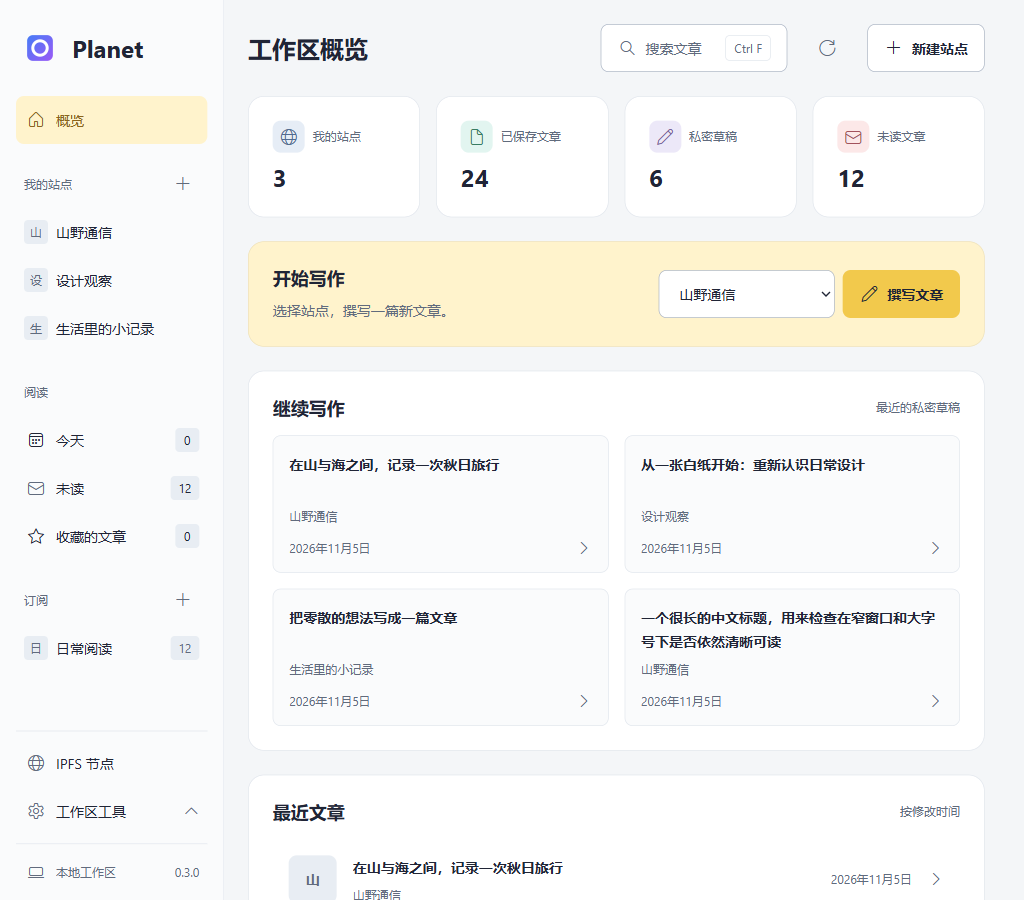
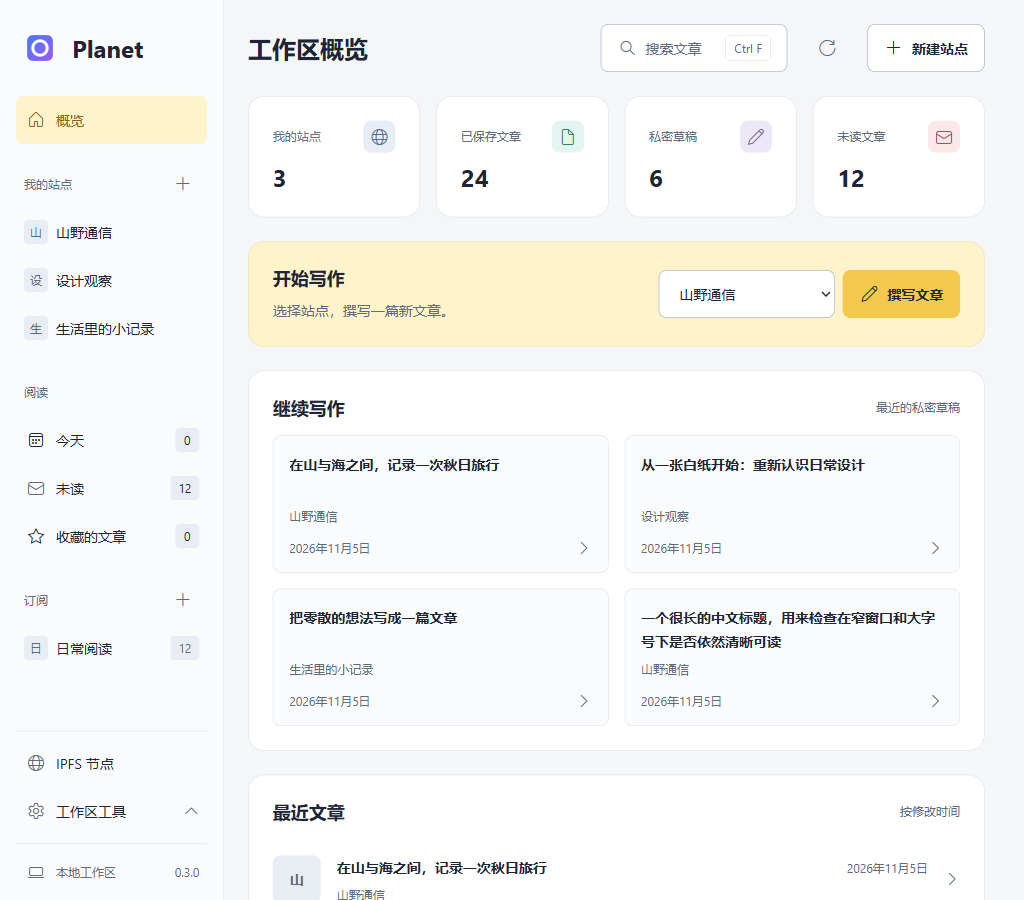
fix(ui): align dashboard content and navigation

diff --git a/windows/src/dashboard.css b/windows/src/dashboard.css
@@ -1,5 +1,7 @@
 /* All-sites overview: shared tokens and an 8px rhythm. */
 .shell.dashboard-mode { height:100dvh; grid-template-columns:256px minmax(0,1fr); }
+.shell.dashboard-mode > .sidebar { padding-top:32px; }
+.shell.dashboard-mode .brand { flex:none; min-height:48px; padding:0 8px; margin-bottom:24px; }
 body:has(.shell.dashboard-mode) { overflow:hidden; }
 .shell.dashboard-mode > .posts-panel,.shell.dashboard-mode > .workspace { display:none; }
 #dashboard[hidden],#dashboard [hidden] { display:none; }
@@ -9,6 +11,7 @@ body:has(.shell.dashboard-mode) { overflow:hidden; }
 .dashboard h1 { font:700 24px/32px var(--pw-font); letter-spacing:0; }
 .dashboard h2 { font:600 18px/24px var(--pw-font); }
 .dashboard-header { display:flex; flex-wrap:wrap; align-items:center; justify-content:space-between; gap:16px; margin-bottom:24px; }
+.dashboard-header h1 { padding-block:8px; }
 .dashboard-actions { display:flex; flex-wrap:wrap; align-items:center; gap:16px; }
 .dashboard .primary,.dashboard .secondary { display:inline-flex; align-items:center; justify-content:center; gap:8px; min-height:48px; padding:8px 16px; border:.5px solid var(--pw-control-line); border-radius:8px; font:600 14px/24px var(--pw-font); box-shadow:none; transition:background-color 120ms,border-color 120ms; }
 .dashboard .primary { color:var(--pw-ink); background:var(--pw-brand); border-color:transparent; }
@@ -26,7 +29,7 @@ body:has(.shell.dashboard-mode) { overflow:hidden; }
 .dashboard select { min-height:48px; min-width:0; max-width:100%; padding:8px 16px; border:.5px solid var(--pw-control-line); border-radius:8px; color:var(--pw-ink); background:var(--pw-card); font:inherit; }
 .dashboard-metrics { display:grid; grid-template-columns:repeat(4,minmax(0,1fr)); gap:16px; margin-bottom:24px!important; }
 .dashboard-metric { padding:24px; border:.5px solid var(--pw-line); border-radius:16px; background:var(--pw-card); }
-.dashboard-metric dt { display:flex; align-items:center; gap:8px; color:var(--pw-muted); font-size:12px; line-height:16px; }
+.dashboard-metric dt { display:flex; flex-direction:row-reverse; align-items:center; justify-content:space-between; gap:8px; color:var(--pw-muted); font-size:12px; line-height:16px; }
 .dashboard-metric .dashboard-metric-icon { width:32px; height:32px; border-radius:8px; background:#e6edf6; color:#516c91; font-size:16px; }
 .dashboard-metric:nth-child(2) .dashboard-metric-icon { background:#e2f5f0; color:#387c63; }
 .dashboard-metric:nth-child(3) .dashboard-metric-icon { background:#ece8f8; color:#79649c; }
@@ -52,6 +55,8 @@ body:has(.shell.dashboard-mode) { overflow:hidden; }
 .dashboard-list { display:grid; min-width:0; }
 .dashboard-row { display:grid; grid-template-columns:48px minmax(0,1fr) 120px 16px; align-items:center; gap:16px; padding:16px; min-width:0; border:0; background:transparent; border-radius:8px; text-align:left; color:var(--pw-ink); font:inherit; transition:background-color 120ms; }
 .dashboard-row + .dashboard-row { border-top:.5px solid var(--pw-line); }
+.dashboard-article { padding-inline:0; }
+.dashboard-article .dashboard-row-body,.dashboard-article .dashboard-row-date { align-self:baseline; }
 .dashboard-row:hover { background:var(--pw-hover); }
 .dashboard-row:active { background:var(--pw-active); }
 .dashboard-row-icon { display:grid; place-items:center; width:48px; height:48px; background:var(--pw-active); color:var(--pw-muted); border-radius:8px; font-size:14px; font-weight:600; }
@@ -69,6 +74,8 @@ body:has(.shell.dashboard-mode) { overflow:hidden; }
 .dashboard-list-empty { grid-column:1 / -1; padding:24px 16px; border:.5px dashed var(--pw-control-line); border-radius:8px; color:var(--pw-muted); background:var(--pw-sidebar); }
 .dashboard-site { display:grid; grid-template-columns:32px minmax(0,1fr); align-items:start; gap:16px; min-width:0; padding:16px 0; border:0; border-radius:8px; background:transparent; text-align:left; color:var(--pw-ink); font:inherit; transition:background-color 120ms; }
 .dashboard-site + .dashboard-site { border-top:.5px solid var(--pw-line); }
+.dashboard-site:first-child { padding-top:0; }
+.dashboard-site:last-child { padding-bottom:0; }
 .dashboard-site:hover { background:var(--pw-hover); }
 .dashboard-site:active { background:var(--pw-active); }
 .dashboard-site-icon { display:grid; place-items:center; width:32px; height:32px; border-radius:8px; color:var(--pw-muted); background:var(--pw-active); font-size:14px; }
@@ -80,18 +87,18 @@ body:has(.shell.dashboard-mode) { overflow:hidden; }
 .dashboard-site-status[data-tone="pending"] { color:var(--pw-accent); }
 .dashboard-site-status[data-tone="failed"] { color:#b34e4e; }
 .dashboard-site-counts { display:flex; flex-wrap:wrap; gap:8px; }
-.dashboard-node { display:flex; gap:16px; align-items:center; }
+.dashboard-node { display:flex; gap:16px; align-items:flex-start; }
 .dashboard-node > div { flex:1; min-width:0; }
-.dashboard-node h2 { font-size:14px; }
+.dashboard-node h2 { display:flex; align-items:center; min-height:32px; font-size:14px; }
 .dashboard-node p { margin-top:8px; }
 .dashboard-node .dashboard-node-icon { width:32px; height:32px; border-radius:8px; background:var(--pw-hover); color:var(--pw-muted); font-size:16px; }
 .dashboard-node .secondary { min-height:32px; padding:8px; font-size:12px; line-height:16px; }
-.dashboard-analytics summary { display:flex; align-items:center; gap:8px; min-height:32px; cursor:pointer; font:600 14px/24px var(--pw-font); border-radius:8px; list-style:none; }
+.dashboard-analytics summary { display:flex; align-items:center; gap:16px; min-height:32px; cursor:pointer; font:600 14px/24px var(--pw-font); border-radius:8px; list-style:none; }
 .dashboard-analytics summary::-webkit-details-marker { display:none; }
-.dashboard-analytics summary .system-icon { color:var(--pw-muted); }
+.dashboard-analytics summary > .system-icon:first-child { width:32px; height:32px; border-radius:8px; background:var(--pw-hover); color:var(--pw-muted); font-size:16px; }
 .dashboard-analytics .dashboard-disclosure { margin-left:auto; width:16px; height:16px; transition:transform 120ms; }
 .dashboard-analytics[open] .dashboard-disclosure { transform:rotate(180deg); }
-.dashboard-analytics > p { margin-top:8px; }
+.dashboard-analytics > p { margin:8px 0 0 48px; }
 .dashboard-analytics-body { display:grid; gap:8px; padding-top:16px; }
 .dashboard .choice-field { margin:0; padding:0; }
 .dashboard .choice-field legend { margin:0 0 8px; padding:0; color:var(--pw-muted); font:500 12px/16px var(--pw-font); }
@@ -128,9 +135,9 @@ body:has(.shell.dashboard-mode) { overflow:hidden; }
 :is(#search-dialog,#site-dialog) .primary:active:not(:disabled) { background:var(--pw-brand-active); }
 :is(#search-dialog,#site-dialog) .secondary:hover:not(:disabled) { background:var(--pw-hover); }
 :is(#search-dialog,#site-dialog) .secondary:active:not(:disabled) { background:var(--pw-active); }
-@media (max-width:1440px) { .shell.dashboard-mode { grid-template-columns:240px minmax(0,1fr); } .dashboard-inner { padding:24px; } .dashboard-columns { grid-template-columns:minmax(0,1fr) 288px; } .dashboard-welcome-art { display:none; } }
+@media (max-width:1440px) { .shell.dashboard-mode { grid-template-columns:240px minmax(0,1fr); } .shell.dashboard-mode > .sidebar { padding-top:24px; } .dashboard-inner { padding:24px; } .dashboard-columns { grid-template-columns:minmax(0,1fr) 288px; } .dashboard-welcome-art { display:none; } }
 @media (max-width:1200px) { .shell.dashboard-mode { grid-template-columns:224px minmax(0,1fr); } .dashboard-columns { grid-template-columns:minmax(0,1fr); } .dashboard-secondary { grid-template-columns:repeat(2,minmax(0,1fr)); align-items:start; } .dashboard-secondary > :first-child { grid-column:1 / -1; } .dashboard-identity { display:none; } }
-@media (max-width:1023px) { .shell.dashboard-mode { grid-template-columns:208px minmax(0,1fr); } .dashboard-inner { padding:16px; } .dashboard-metrics { grid-template-columns:repeat(2,minmax(0,1fr)); } .dashboard-secondary { grid-template-columns:minmax(0,1fr); } .dashboard-welcome-copy { grid-template-columns:1fr; } .dashboard-compose,#dashboard-first-site { grid-column:1; grid-row:auto; margin-top:8px; } .dashboard-start-steps { grid-template-columns:1fr; gap:24px; } }
+@media (max-width:1023px) { .shell.dashboard-mode { grid-template-columns:208px minmax(0,1fr); } .shell.dashboard-mode > .sidebar { padding-top:16px; } .dashboard-inner { padding:16px; } .dashboard-metrics { grid-template-columns:repeat(2,minmax(0,1fr)); } .dashboard-secondary { grid-template-columns:minmax(0,1fr); } .dashboard-welcome-copy { grid-template-columns:1fr; } .dashboard-compose,#dashboard-first-site { grid-column:1; grid-row:auto; margin-top:8px; } .dashboard-start-steps { grid-template-columns:1fr; gap:24px; } }
 @container (max-width:760px) { .dashboard-header { align-items:flex-start; } .dashboard-drafts { grid-template-columns:1fr; } .dashboard-row:not(.dashboard-draft) { grid-template-columns:48px minmax(0,1fr) 16px; } .dashboard-row:not(.dashboard-draft) .dashboard-row-date { grid-column:2; grid-row:2; text-align:left; } .dashboard-row:not(.dashboard-draft) .dashboard-row-arrow { grid-column:3; grid-row:1 / 3; } .dashboard-row:not(.dashboard-draft) .dashboard-row-icon { grid-row:1 / 3; } }
 @media (prefers-reduced-motion:reduce) { .dashboard * { transition:none!important; } }
 @media (forced-colors:active) { .dashboard-section,.dashboard-metric,.dashboard-row-icon,.dashboard-draft,.dashboard-welcome { border:1px solid CanvasText; } .dashboard-welcome-art { display:none; } }

diff --git a/docs/uiux-dashboard-design.md b/docs/uiux-dashboard-design.md
@@ -67,9 +67,11 @@
 
 顶部标题居左，搜索入口、刷新、创建和工作区标识共用一条 48px 控件基线，彼此 Gap 16px。搜索入口打开已有搜索对话框，保留 Ctrl+F。应用没有账号系统：右侧当前显示本地工作区标识而非虚构用户头像；若未来接入真实账号，头像采用 32×32px 圆形，在同一 48px 行中垂直居中，不改变操作区边缘。
 
-数据区宽屏四等列，列 Gap 16px；每张卡片相同内边距、标签行高和数字基线。图标采用浅色容器，避免整片饱和颜色抢夺内容。
+数据区宽屏四等列，列 Gap 16px；每张卡片相同内边距、标签行高和数字基线。标签与数值左对齐，32px 图标容器放在标签行右端，避免整片饱和颜色抢夺内容。
 
 草稿区两列，卡片 Gap 16px；文章行使用固定缩略图槽位、弹性标题列、120px 日期列和 16px 方向图标。无缩略图时用站点首字，不添加品牌图案。只显示真实可用的站点名和修改日期，不补造阅读/点赞/评论指标。所有模块外缘、标题起点、内容起点以同一网格对齐。
+
+侧栏品牌与页面标题共用 48px 顶部行，并随页面边距使用 32/24/16px 顶部留白；单行工具栏下，概览导航与统计区上缘对齐。文章缩略图左缘与模块标题对齐，宽屏日期对齐文章首行基线；窄窗日期仍排在标题下方。站点列表首尾不重复叠加面板留白。IPFS 与访问统计共用 32px 图标槽和 16px 图文间距，说明文字与标题左缘一致。
 
 ## 三、交互与反馈
 
@@ -107,6 +109,7 @@
 | 浅色侧栏、统一选中态 | [1280px 概览](uiux/overview-1280.png)，底栏不再把面板入口表示为下一级导航 |
 | 核心指标优先 | 四项指标位于写作入口上方；[1600px 全布局](uiux/overview-1600.png) |
 | 数据等高、边缘对齐 | 四个断点测量均等高；主面板、统计区和写作区共用内容边缘；工具栏控件同一 y 基线 |
+| 视觉对齐复核 | 1600/1280/1024/860px 下，品牌与标题文字顶部、概览导航与统计区顶部、文章缩略图与模块标题左缘的差值均为 0px；统计卡片等高，无横向溢出。长标题、空工作区与搜索焦点正常；[列表与服务对齐](uiux/alignment-services.png) |
 | 8px 网格 | 检查可见节点的计算 padding/margin/gap；修复继承的 20px 收藏间距、浏览器默认按钮 padding 和统计单选组的 7/10px 间距 |
 | Hover / Active | 真实指针悬停与按下；主按钮按下为 rgb(213,167,40)，transform 为 none；颜色过渡 120ms |
 | Focus | [搜索聚焦](uiux/search-focus.png)：2px #8A641B 描边与 4px #F2C94C40 外环；关闭后恢复到 header 搜索按钮 |

diff --git a/CHANGELOG.md b/CHANGELOG.md
@@ -31,5 +31,6 @@ User-facing changes are recorded here. Release entries use `MAJOR.MINOR.PATCH` a
 
 ### Fixed
 
+- Aligned dashboard navigation and page headings, statistic labels and values, article columns, and site/service card content across desktop window sizes.
 - Platinum template verification accepts LF and CRLF stylesheets while still rejecting changed content, so clean Git checkouts can use the bundled template.
 - Service configuration accepts Windows short directory names while continuing to reject symbolic links and junctions in configuration paths.
